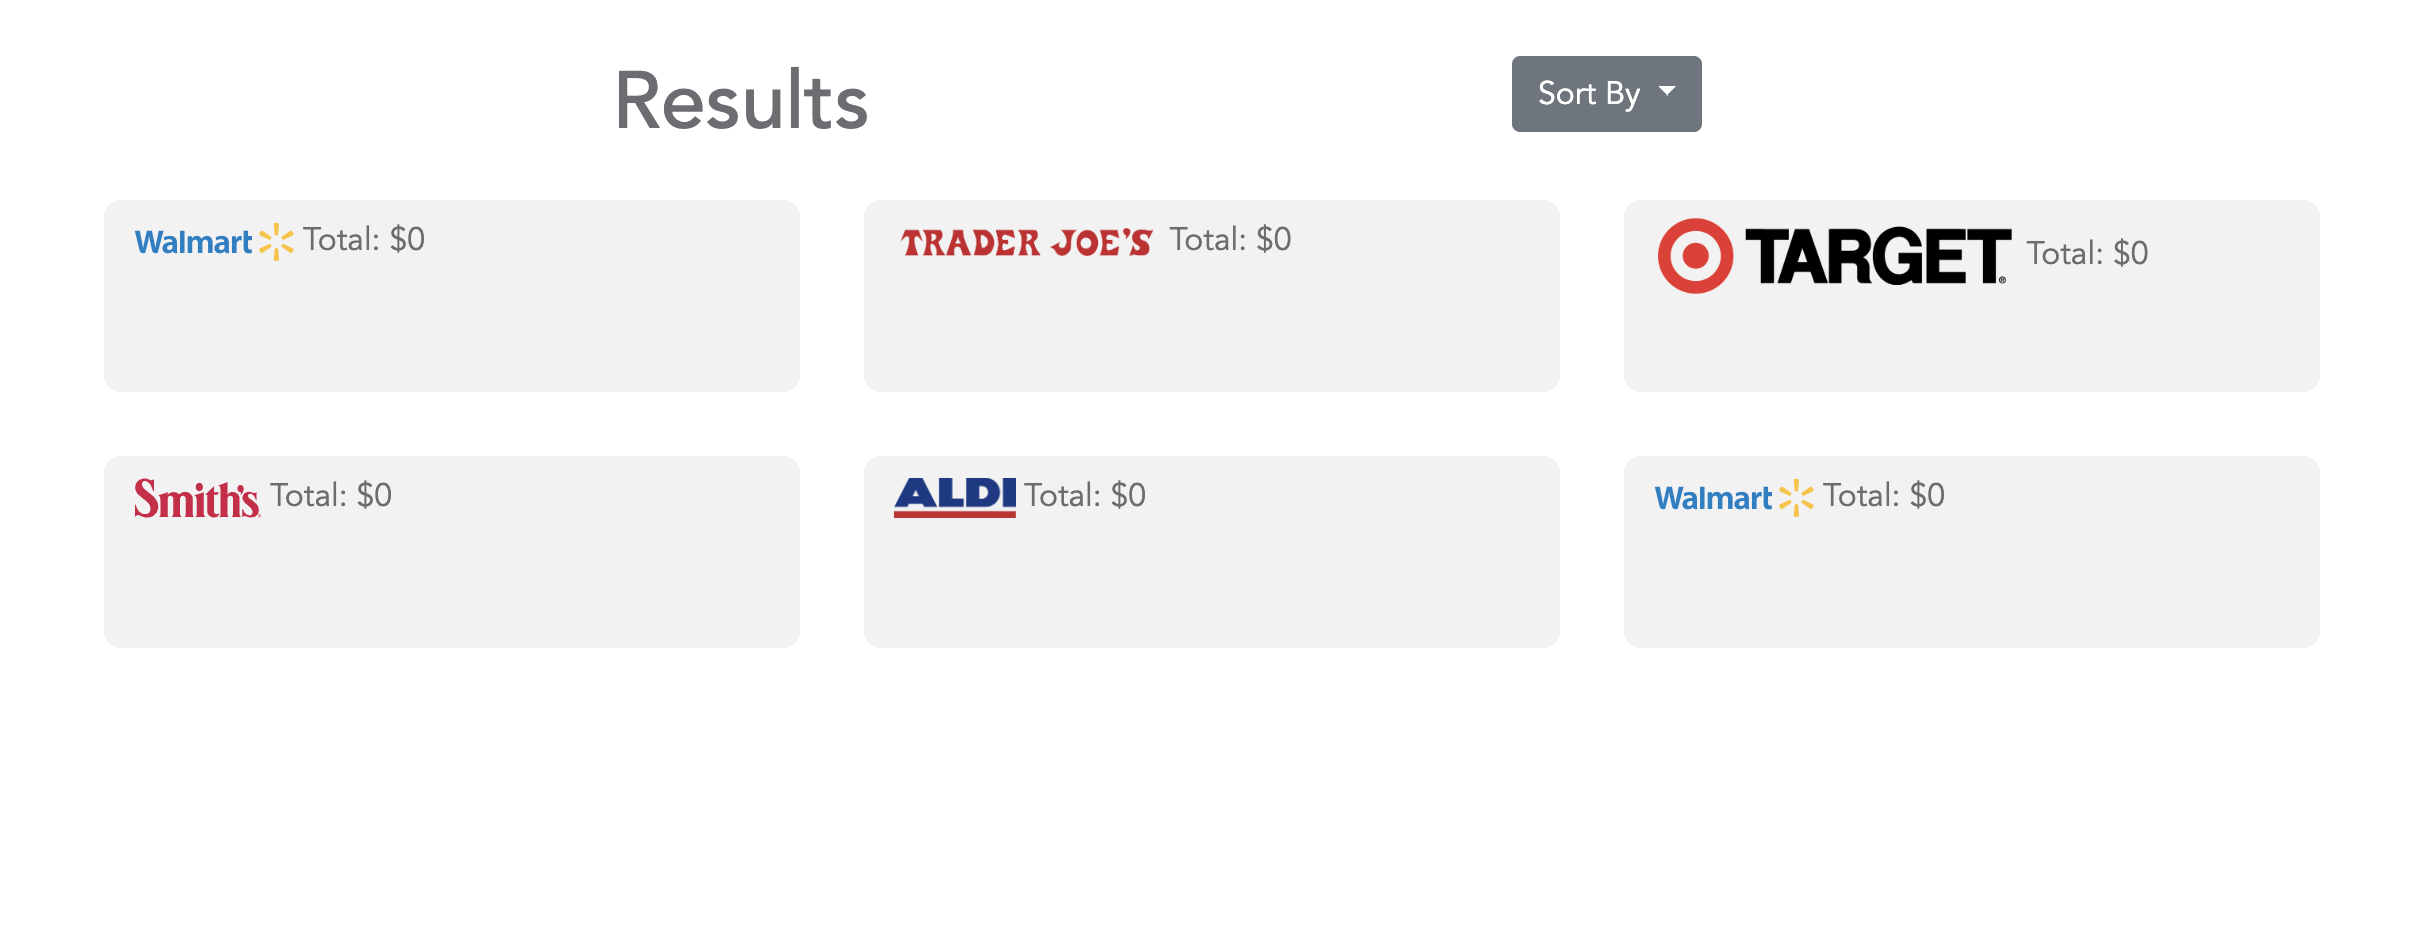
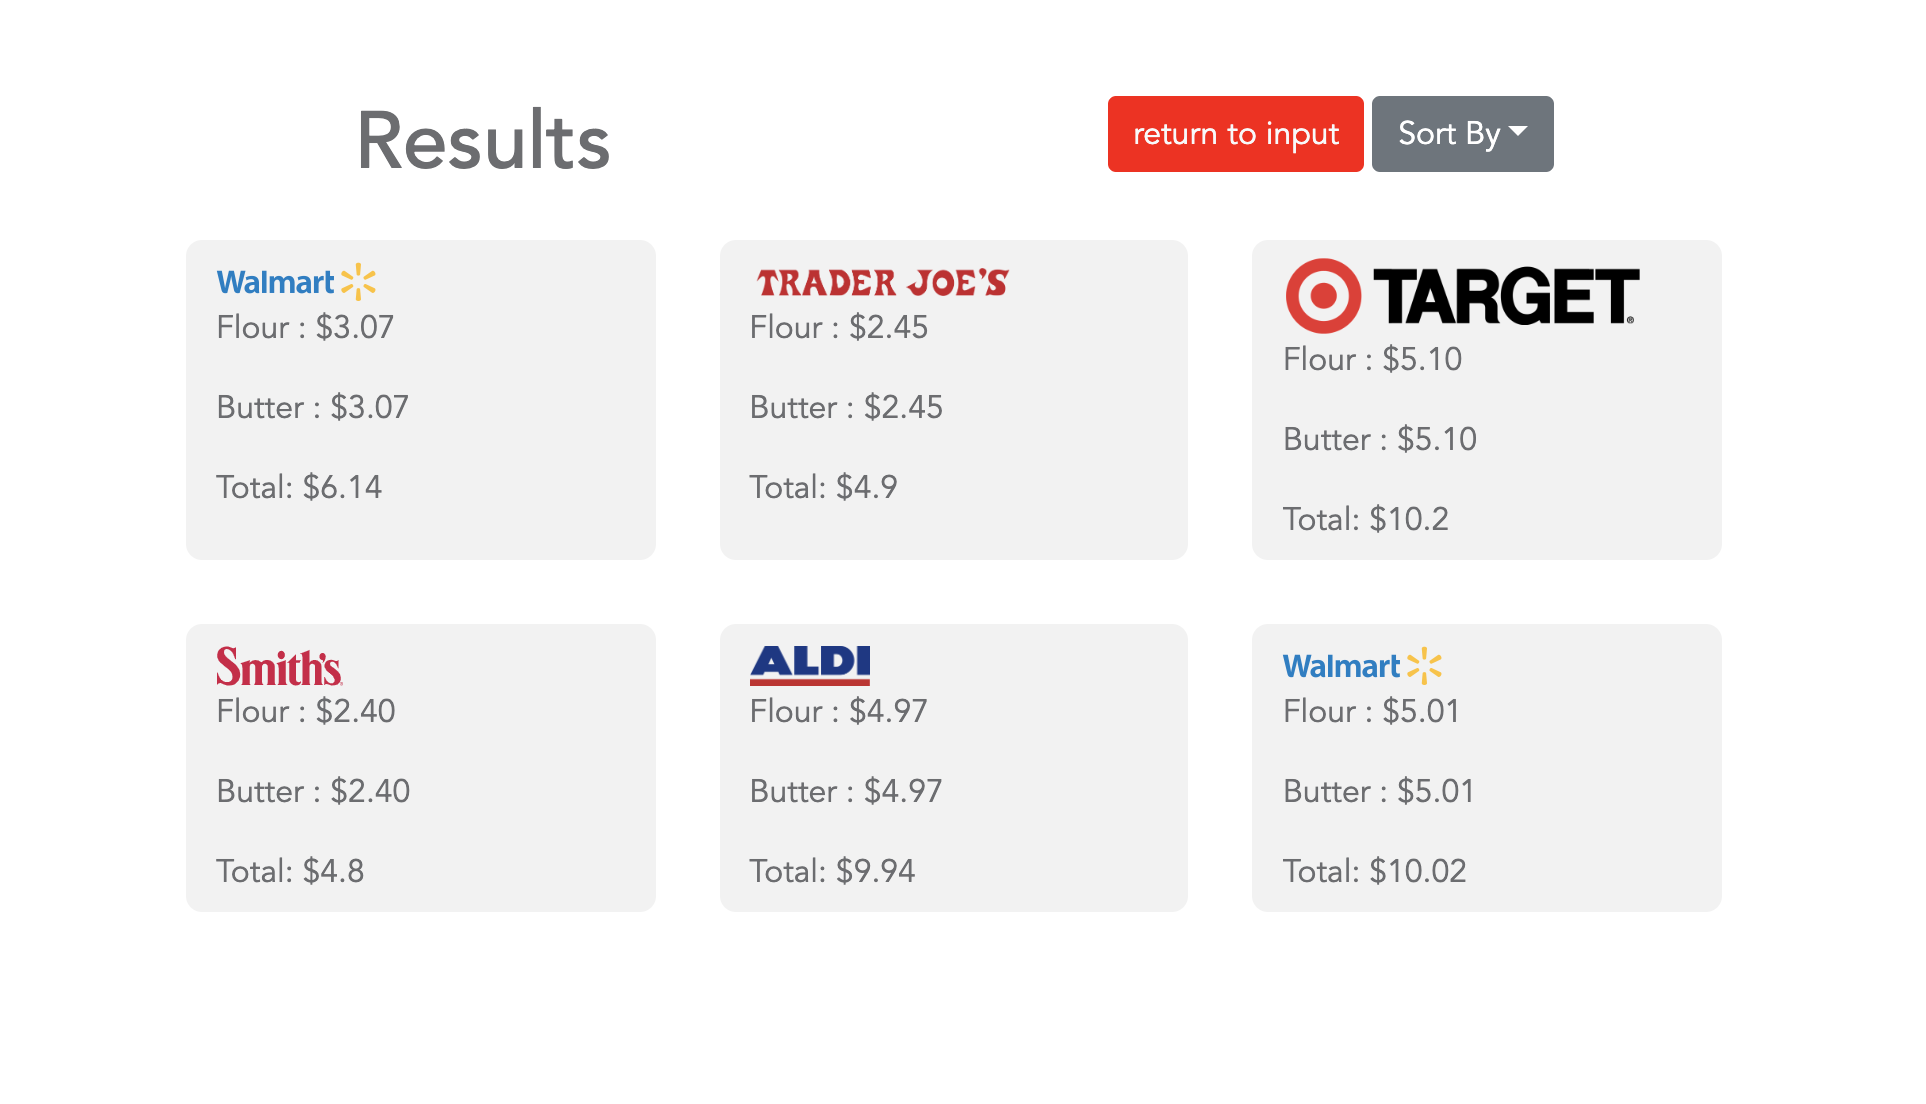
final stylings

diff --git a/input.html b/input.html
@@ -79,10 +79,11 @@
     <div v-else>
       <div id="horizontal">
         <h1 class="title">Results</h1>
+        <button id="button-return" v-on:click="switchToInput()" type="button">
+          return to input</button>
         <div class="dropdown">
           <button class="btn btn-secondary dropdown-toggle" type="button" id="dropdownMenuButton" data-toggle="dropdown" aria-haspopup="true" aria-expanded="false">
-        Sort By
-      </button>
+          Sort By</button>
           <div class="dropdown-menu" aria-labelledby="dropdownMenuButton">
             <a class="dropdown-item" href="#">Price</a>
             <a class="dropdown-item" href="#">Popularity</a>
@@ -90,11 +91,8 @@
         </div>
       </div>
 
-      <button class="button" v-on:click="switchToInput()" type="button">
-         return to input</button>
-
       <!-- bootstrap grid structure -->
-      <div class="container">
+      <div class="container" style="width: 800px;">
         <div class="row">
           <div class="col-sm">
             <img style="height: 20px;" class="brand" src="./img/walmart.png" />
@@ -120,7 +118,7 @@
         </div>
       </div>
 
-      <div class="container">
+      <div class="container" style="width: 800px;">
         <div class="row">
           <div class="col-sm">
             <img style="height: 20px;" class="brand" src="./img/smiths.svg" />

diff --git a/styles.css b/styles.css
@@ -22,6 +22,7 @@ button {
   background-color: #ff0000;
   border: none;
   color: #f8f9fa;
+  margin: auto;
 }
 
 #horizontal {
@@ -48,16 +49,16 @@ button {
 
 /*steps*/
 
-.step {
+.step, .shadows {
   width: 400px;
   background-color: #ffda01;
   height: 50%;
   margin-top: auto;
   margin-bottom: auto;
   /*box-shadow: 5px 10px #6c6d70;*/
-  -moz-box-shadow:    3px 3px 5px 6px #ccc;
-  -webkit-box-shadow: 3px 3px 5px 6px #ccc;
-  box-shadow:         3px 3px 5px 6px #ccc;
+  -moz-box-shadow:    5px 6px #ccc;
+  -webkit-box-shadow: 5px 6px #ccc;
+  box-shadow:         5px 6px #ccc;
   border-radius: 8px;
 }
 
@@ -68,7 +69,7 @@ button {
 }
 
 .step-img {
-  width: 200px;
+  width: 100%;
 }
 
 #steps-container {
@@ -79,4 +80,20 @@ button {
   background-color: #f8f9fa;
   transition: width 2s;
 }
+
+.step p {
+  color: #6c6d70;
+  margin-top: 16px;
+  margin-left: 16px;
+}
+
+#step-3 button, #step-3 {
+  height: 64px;
+  width: 160px;
+}
+/*
+#step-3 {
+  height: 64px;
+  width: 160px;
+}*/
 

diff --git a/index.html b/index.html
@@ -41,18 +41,20 @@
   </div>
 
   <div id="steps-container">
-    <div class="step" id="step-1">
+    <div class="step shadows" id="step-1">
       <h1 class="step-title">Step 1</h1>
-      <img class="step-img" src="./img/input.png" style="width: 100%;" />
+      <img class="step-img" src="./img/input.png" />
+      <p class="description">Enter your ingredients or import your recipe for more convenience.</p>
     </div>
 
-    <div class="step" id="step-2">
+    <div class="step shadows" id="step-2">
       <h1 class="step-title">Step 2</h1>
-      <img src="./img/results.png" style="width: 100%;" />
+      <img class="step-img" src="./img/results.png" />
+      <p class="description">See which prices best fit your budget!</p>
     </div>
 
     <div class="step" id="step-3">
-      <h1 class="step-title">Step 3</h1>
+      <button style="border-radius: 8px;" onclick="window.location.href = '/input.html';">Start now!</button>
     </div>
   </div>
 

diff --git a/input.css b/input.css
@@ -28,6 +28,16 @@ input {
   margin: 4px;
 }
 
+#button-return {
+  width: 150px;
+  background-color: #ff0000;
+  border: none;
+  color: #f8f9fa;
+  border-radius: 4px;
+  height: 38px;
+  margin-right: 4px;
+}
+
 #horizontal {
   height: 100%;
   width: 600px;
@@ -158,7 +168,7 @@ input {
   border-radius: 8px;
   color: #6c6d70;
   width: 200px;
-  height: 100px;
+  height: auto;
   padding: 8px;
   margin: 16px;
   flex-basis: 0;
